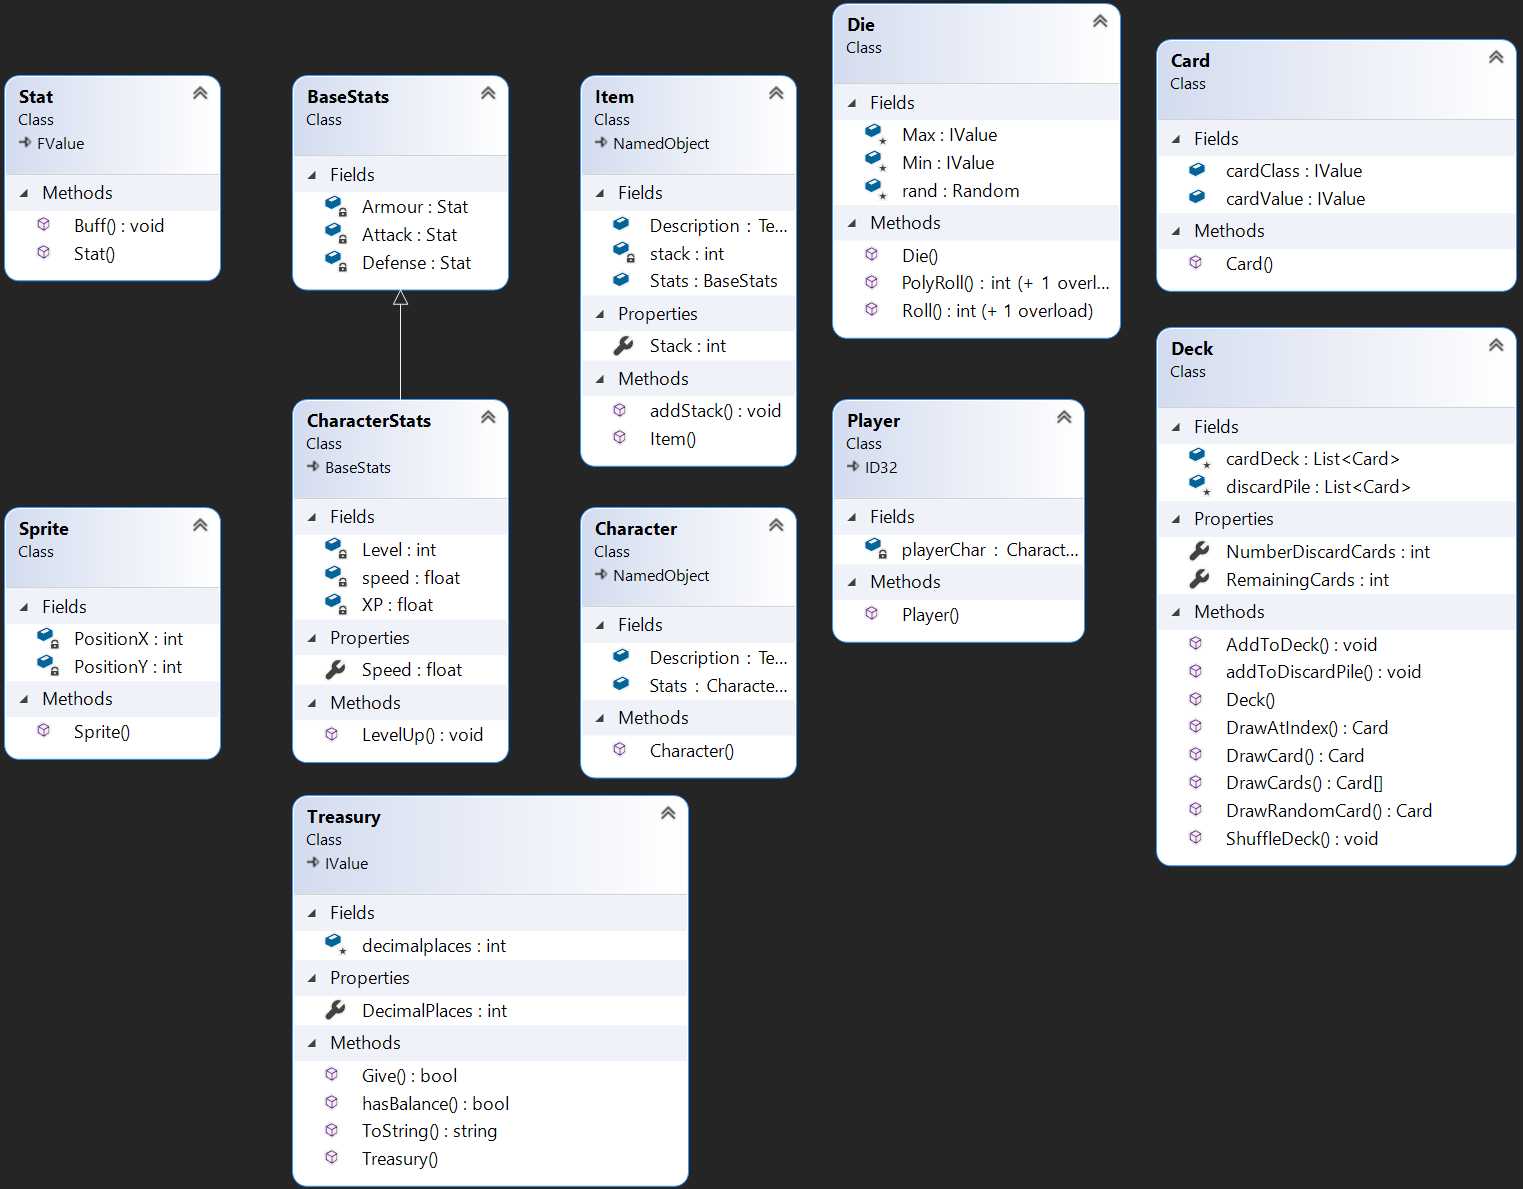
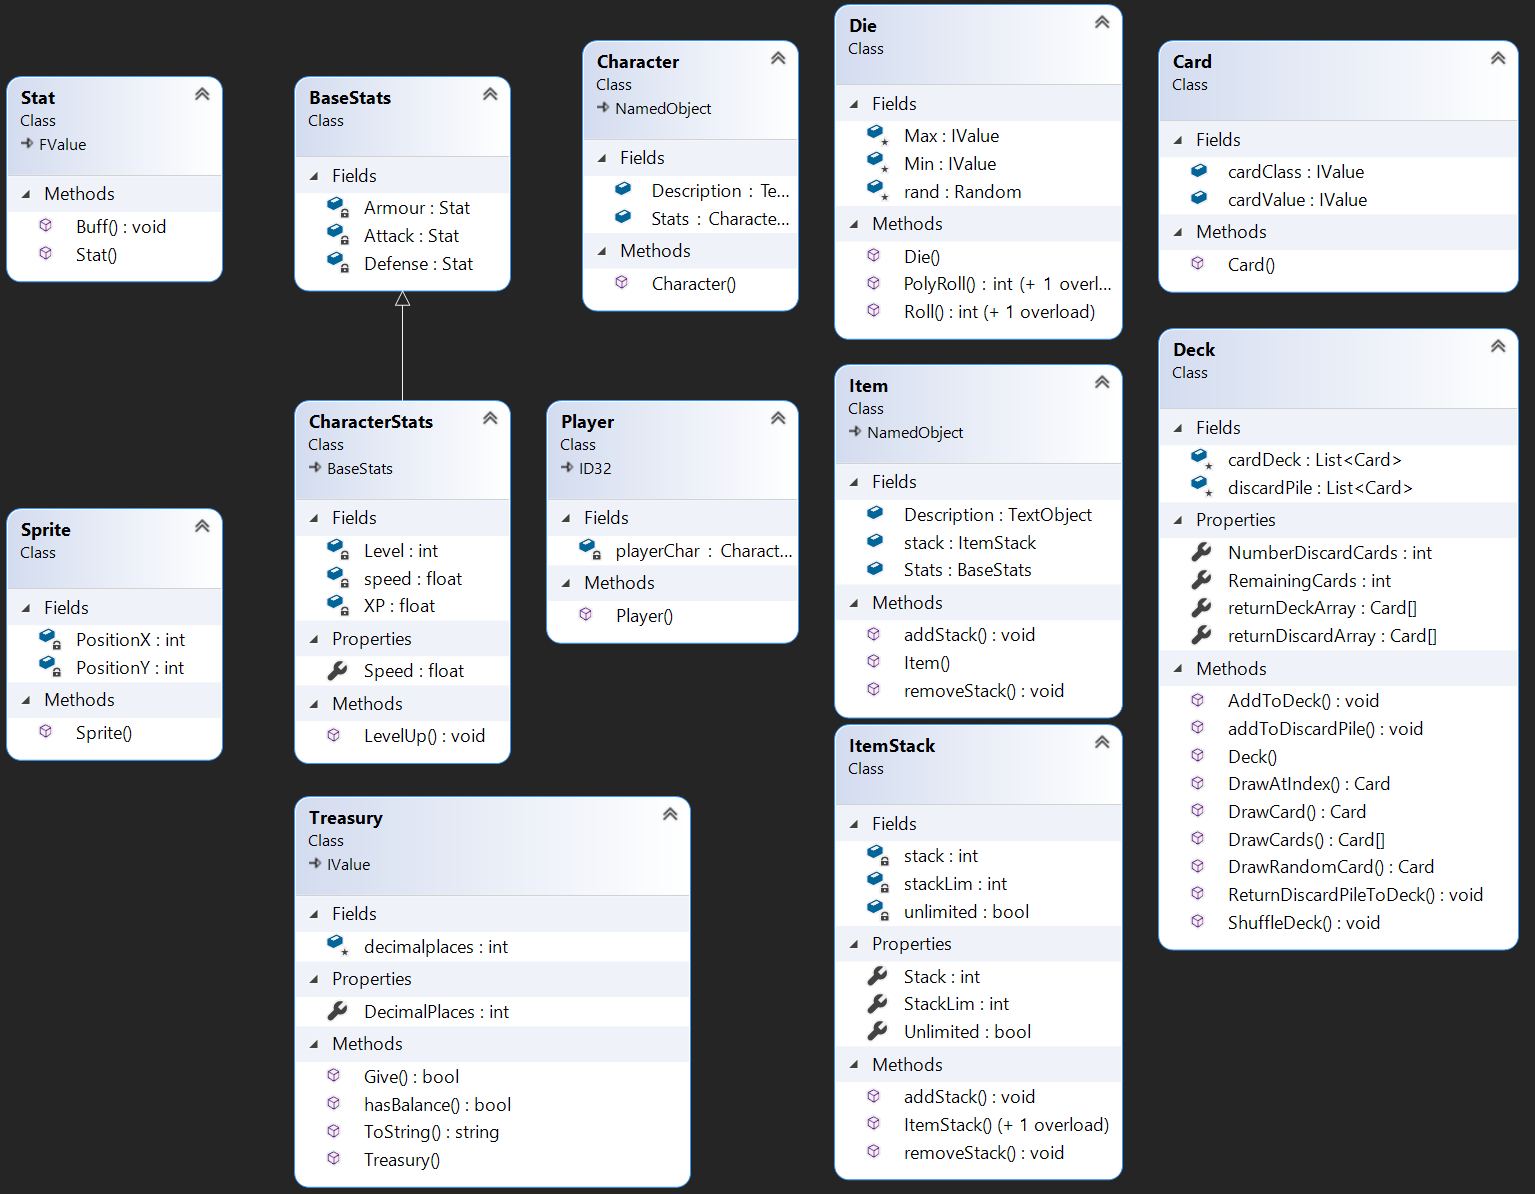
Item Stack class introduced, doesn't error handle but it will throw exceptions if an item is stacked beyond its limits Deck piles can be returned as a whole array for read only functionality All maps can return a size propety on the measure (area)

diff --git a/Game/Item.cs b/Game/Item.cs
@@ -1,4 +1,5 @@
-using Uaine.Objects.Primitives;
+using System;
+using Uaine.Objects.Primitives;
 
 namespace Uaine.Objects.Game
 {
@@ -6,16 +7,54 @@ namespace Uaine.Objects.Game
     {
         public TextObject Description;
         public BaseStats Stats;
-        private int stack;
-        public int Stack { get => stack; }
+        public ItemStack stack;
         public void addStack(int number)
         {
-            stack += number;
+            stack.addStack(number);
+        }
+        public void removeStack(int number)
+        {
+            stack.removeStack(number);
         }
         public Item(string Name, TextObject description, CharacterStats stats) : base(Name)
         {
             Description = description;
             Stats = stats;
+        }
+    }
+    public class ItemStack
+    {
+        private int stack;
+        public int Stack { get => stack; }
+        private int stackLim;
+        public int StackLim { get => stackLim; }
+        private bool unlimited = false;
+        public bool Unlimited { get => unlimited; }
+
+        public ItemStack(int stack, int stackLim)
+        {
+            this.stack = stack;
+            this.stackLim = stackLim;
+            this.unlimited = false;
+        }
+
+        public ItemStack(int stack, bool unlimited)
+        {
+            this.stack = stack;
+            this.stackLim = int.MaxValue;
+            this.unlimited = unlimited;
+        }
+        public void addStack(int number)
+        {
+            if (stack <= number && stack + number <= stackLim)
+                stack += number;
+            else throw new Exception("Item stack will be beyond limits");
+        }
+        public void removeStack(int number)
+        {
+            if (stack >= number)
+                stack -= number;
+            else throw new Exception("Item stack will be beyond limits");
         }
     }
 }

diff --git a/Game/Card/Deck.cs b/Game/Card/Deck.cs
@@ -7,7 +7,9 @@ namespace Uaine.Objects.Game.Card
     public class Deck
     {
         protected List<Card> cardDeck;
+        public Card[] returnDeckArray { get => cardDeck.ToArray(); }
         protected List<Card> discardPile;
+        public Card[] returnDiscardArray { get => discardPile.ToArray(); }
         public int RemainingCards { get => cardDeck.Count; }
         public int NumberDiscardCards { get => discardPile.Count; }
 

diff --git a/Maps/FloatMap.cs b/Maps/FloatMap.cs
@@ -5,6 +5,7 @@ namespace Uaine.Objects.Maps
     public class FloatMap : IntRectangle
     {
         public float[,] cells;
+        public int Size { get => (int)Measure(); }
         public FloatMap(int width, int height, int init) : base(width, height)
         {
             cells = new float[width, height];

diff --git a/Maps/BoolMap.cs b/Maps/BoolMap.cs
@@ -5,6 +5,7 @@ namespace Uaine.Objects.Maps
     public class BoolMap : IntRectangle
     {
         public bool[,] cells;
+        public int Size { get => (int)Measure(); }
         public BoolMap(int width, int height, bool init) : base(width, height)
         {
             cells = new bool[width, height];

diff --git a/Maps/IntMap.cs b/Maps/IntMap.cs
@@ -5,6 +5,7 @@ namespace Uaine.Objects.Maps
     public class IntMap : IntRectangle
     {
         public int[,] cells;
+        public int Size { get => (int)Measure(); }
         public IntMap(int width, int height, int init) : base(width, height)
         {
             cells = new int[width, height];

diff --git a/README.md b/README.md
@@ -14,7 +14,7 @@ Base classes to inherit from:
 
 ![IDDiagram](https://raw.githubusercontent.com/uaineteine/Uaine.Objects/release/images/IDs.png)
 
-## Version 1.8
+## Version 1.9
 
 See the [changelog](changelog.txt) for details.
 
